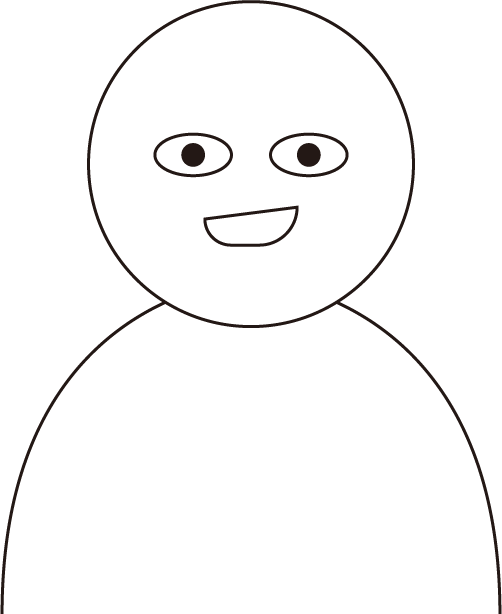
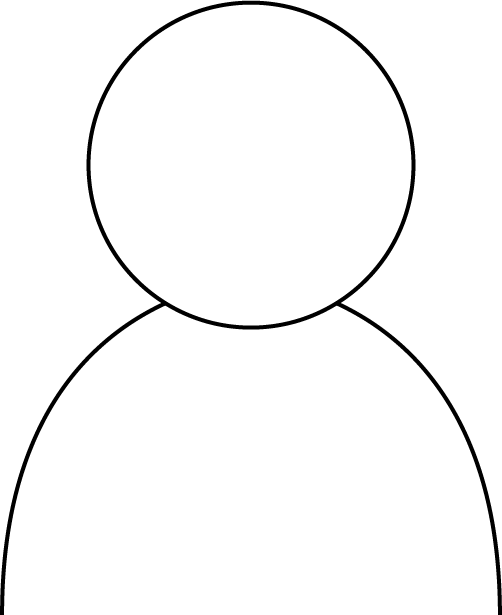
Add files via upload

diff --git a/index.html b/index.html
@@ -14,6 +14,7 @@
 		section{width: 1400px; margin: auto; text-align: center;}
 		h1{position: absolute; top: 0; bottom: 0; left: 0; right: 0; height: 40px; margin: auto;font-weight:normal; font-size: 2.5em;}
 		h2{position: absolute; color: #ffffff;font-weight:normal;}
+		.op{opacity: 0;}
 	</style>
 
 </head>
@@ -25,25 +26,35 @@
 
 <section>
 	<div class="flex">
-			<img src='1.png' class="item" style=" width: 15%; left: 80px; top:35px;">
+			<img src='1.png' id='temBut' class="item" style=" width: 15%; left: 80px; top:35px;">
 			<h2 style="left:250px;top:130px;">체온 올리기</h2>
 
-			<img src='2.png' class="item" style=" width: 12%; left:230px; bottom:160px;">
+			<img src='2.png' class="item" id='eyeBut' style=" width: 12%; left:230px; bottom:160px;">
 			<h2 style="left:230px; bottom:100px;">퀭한 눈 밑 만들기</h2>
 
-			<img src='3.png' class="item" style=" width: 13%; right:200px; top:25px;">
+			<img src='3.png' class="item" id='lipBut' style=" width: 13%; right:200px; top:25px;">
 			<h2 style="right:300px;top:130px;">창백한 입술 만들기</h2>
 
-			<img src='4.png' class="item" style=" width: 14%; right:60px; top:180px;">
+			<img src='4.png' class="item" id='tearBut' style="width: 14%; right:60px; top:180px;">
 			<h2 style="right:60px;top:270px;">눈물내기</h2>
 
-			<img src='5.png' class="item" style=" width: 16%; right:180px; bottom:50px;">
+			<img src='5.png' class="item" id='bloodBut' style=" width: 16%; right:180px; bottom:50px;">
 			<h2 style="right:130px;bottom: 50px;">코피 흘리기</h2>
 
 
 			<img src='6.png' class="item" style="height: 90%; left:478.825px;bottom:0px;">
+
 			<img src='7.png' class="item" style="width: 20%; left:560px; bottom:85px; z-index: 1;">
-			<img src='8.png' class="item" style="width: 40%; left:420px; bottom:0px; z-index: 2;">
+
+			<img src='7-1.png' class="item op" id='tem' style="width: 20%; left:560px; bottom:85px; z-index: 2;">
+			<img src='7-2.png' class="item op" id='lip'style="width: 20%; left:560px; bottom:85px; z-index: 3;">
+			<img src='7-3.png' class="item op "id='eye'style="width: 20%; left:560px; bottom:85px; z-index: 4;">
+			<img src='7-4.png' class="item op" id='blood' style="width: 20%; left:560px; bottom:85px; z-index: 5;">
+			
+			<img src='7-5.png' class="item" style="width: 20%; left:560px; bottom:85px; z-index: 6;">
+			
+			<img src='7-6.png' class="item op" id='tear' style="width: 20%; left:560px; bottom:85px; z-index: 7;">
+			<img src='8.png' class="item" id='allowBut' style="width: 40%; left:420px; bottom:0px; z-index: 8;">
 		
 
 			<a href="https://serena0412.github.io/21.11.17.main/" target_self>
@@ -53,5 +64,57 @@
 
 </section>
 
+
+
+<script type="text/javascript">
+	
+allowBut.onclick = function (){
+	            alert('"아이고... 그래 아파보인다... 오늘은 푹 쉬어라."');
+	}
+
+
+
+
+
+
+
+temBut.onclick = function (){
+
+var element = document.getElementById('tem');
+element.style.opacity = "1";
+}
+
+
+lipBut.onclick = function (){
+
+var element = document.getElementById('lip');
+element.style.opacity = "1";
+}
+
+
+
+eyeBut.onclick = function (){
+
+var element = document.getElementById('eye');
+element.style.opacity = "1";
+}
+
+
+bloodBut.onclick = function (){
+
+var element = document.getElementById('blood');
+element.style.opacity = "1";
+}
+
+
+tearBut.onclick = function (){
+
+var element = document.getElementById('tear');
+element.style.opacity = "1";
+}
+
+
+
+</script>
 </body>
 </html>
